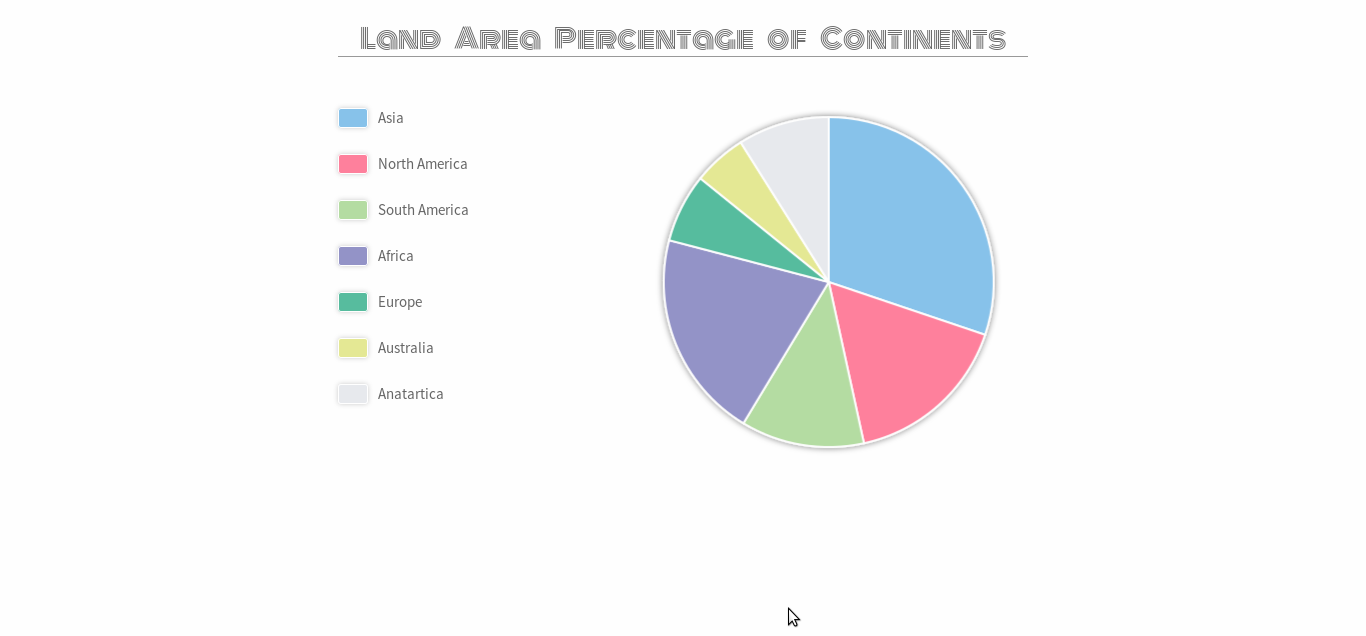
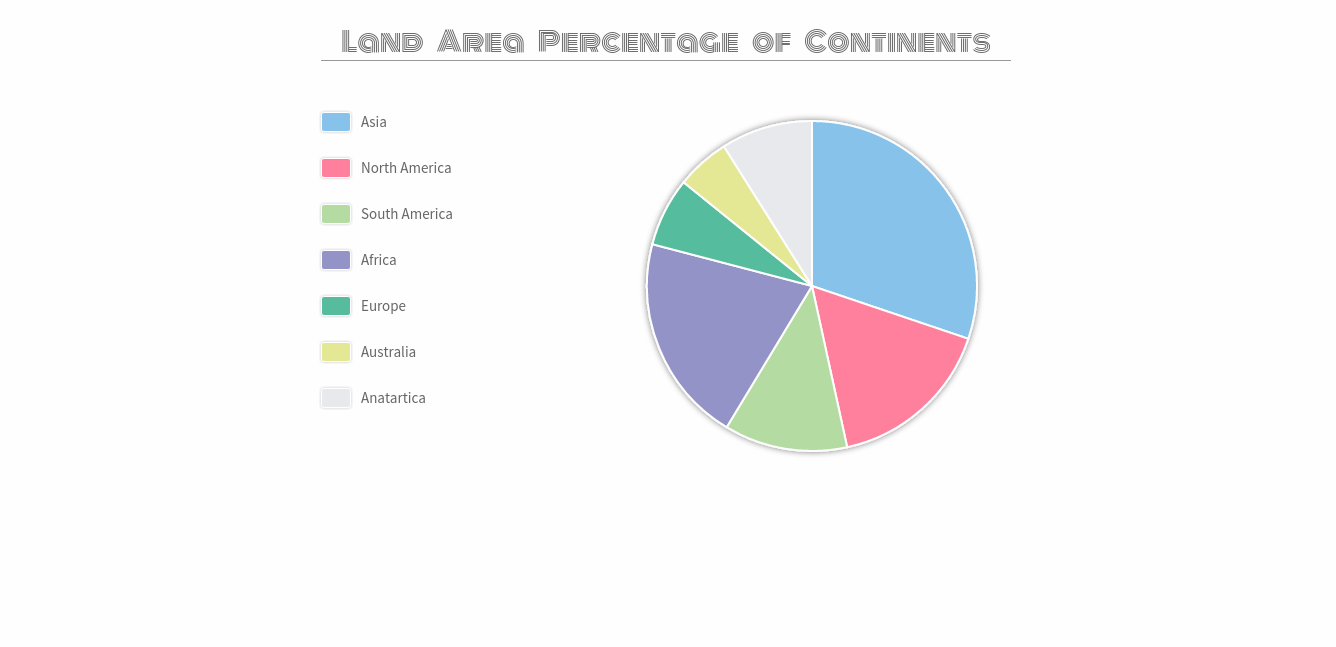
added tooltip

diff --git a/projects/pie-chart/js/index.js b/projects/pie-chart/js/index.js
@@ -14,9 +14,9 @@ function plot() {
 
 	var parElemWidth = document.querySelector("#chart")
 																				.parentElement.offsetWidth;
-	
+
 	parElemWidth = parElemWidth > 350 ? 350 : parElemWidth;
-	
+
 	var width = parElemWidth;
 
 	var height = width;
@@ -25,8 +25,8 @@ function plot() {
 
 	var colorScale = d3.scaleOrdinal()
 											.range(colors);
-	
-	
+
+	var tooltip = d3.select(".myTooltip");
 
 	var arc = d3.arc()
 										.innerRadius(0)
@@ -46,7 +46,7 @@ function plot() {
 
 	var g = svg.selectAll(".arc")
 										// pie(customData) will Return some additional data (path data) with
-										// original data 
+										// original data
 										.data(pie(customData))
 								.enter().append("g")
 										.attr("class", "arc");
@@ -57,14 +57,16 @@ function plot() {
 										// The result of this function is then set as the d attribute for
 										// the path.
 										.attr("d", arc)
-										.attr("rel", "tooltip")
-										.attr("title", function(d) {
-												return d.data.name;
+										.style("fill", function(d){ return colorScale(d.data.value)})
+										.on("mouseover", function(d){
+														tooltip.html("<span class='tooltipContent'>" + d.data.value + "%</span>");
+														return tooltip.style("visibility", "visible").style("opacity", "1");
 										})
-										.style("fill", function(d){ return colorScale(d.data.value / 100)});
+										.on("mousemove", function(){return tooltip.style("top", (d3.event.pageY-35)+"px").style("left",(d3.event.pageX)-60 + "px");})
+										.on("mouseout", function(){return tooltip.style("visibility", "hidden").style("opacity", "0");});
 }
 
-document.addEventListener("DOMContentLoaded", function(event) { 
+document.addEventListener("DOMContentLoaded", function(event) {
   plot();
   // for ie 9
   if(window.attachEvent) {

diff --git a/projects/pie-chart/css/style.css b/projects/pie-chart/css/style.css
@@ -4,6 +4,7 @@
 
 body {
 	background: #fefefe;
+	overflow: hidden;
 }
 
 .container {
@@ -63,7 +64,7 @@ p , span{
 }
 
 .sa {
-	background: #b4dca2; 
+	background: #b4dca2;
 }
 
 .africa {
@@ -90,6 +91,42 @@ path {
 .col-xs-5, .col-xs-12, .col-xs-7{
 	padding: 0;
 	margin-bottom: 15px;
+}
+
+.myTooltip {
+	-webkit-transition: 100ms all ease;
+	-moz-transition: 100ms all ease;
+	-o-transition: 100ms all ease;
+	-ms-transition: 100ms all ease;
+	transition: 100ms  all ease;
+	visibility: hidden;
+	z-index: 9999;
+	position: absolute;
+	opacity: 0;
+	pointer-events: none;
+	width: 100px;
+}
+
+.tooltipContent {
+	text-align: center;
+	display: block;
+	width: 60px;
+	background: #555;
+	color: #fff;
+	padding: 5px 0;
+	line-height: 1;
+	font-size: 14px;
+	border-radius: 3px;
+	position: relative;
+}
+.tooltipContent::after {
+	content: '';
+	border-right: solid 0px transparent;
+	border-left: solid 10px transparent;
+	border-top: solid 10px #555;
+	position: absolute;
+	bottom: -6px;
+	right: 0;
 }
 
 @media screen and (max-width: 500px) {

diff --git a/projects/pie-chart/index.html b/projects/pie-chart/index.html
@@ -2,6 +2,7 @@
 <html >
 <head>
   <meta charset="UTF-8">
+  <meta name="viewport" content="width=device-width, initial-scale=1.0">
   <title>Pie chart - d3.js</title>
   <link href="https://maxcdn.bootstrapcdn.com/font-awesome/4.7.0/css/font-awesome.min.css" rel="stylesheet" integrity="sha384-wvfXpqpZZVQGK6TAh5PVlGOfQNHSoD2xbE+QkPxCAFlNEevoEH3Sl0sibVcOQVnN" crossorigin="anonymous">
   <link href="https://fonts.googleapis.com/css?family=Monoton|Source+Sans+Pro:200,300,400,600" rel="stylesheet">
@@ -10,6 +11,7 @@
 </head>
 <body>
   <div class="container">
+    <div class="myTooltip"><span class="tooltipContent"></span></div>
   	<h3 class="text-center">Land Area Percentage of Continents</h3>
   	<div class="info col-xs-5">
   		<div class="col-xs-12"><p><span class="colorBox asia"></span><span class="name">Asia</span></p></div>

diff --git a/projects.html b/projects.html
@@ -37,7 +37,7 @@
             </div>
             <div class="col-xs-12">
               <h4 class="pname">Pie Chart</h4>
-              <p class="pdesc">A simple pie chart made by D3.js, representing area percentage of continents of world.
+              <p class="pdesc">A simple pie chart made by using D3.js, representing area percentage of continents of world.
               </p>
               <p class="ptech">
                 Technology used :
